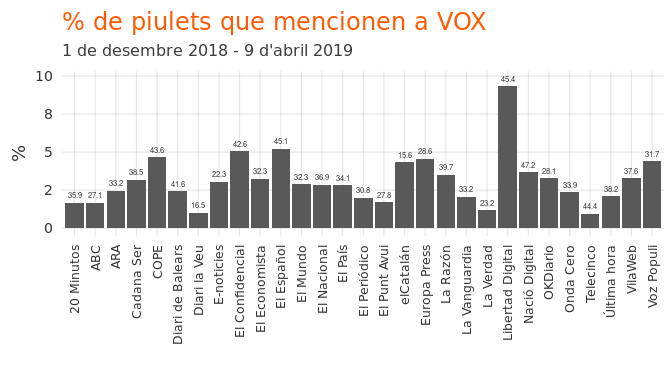
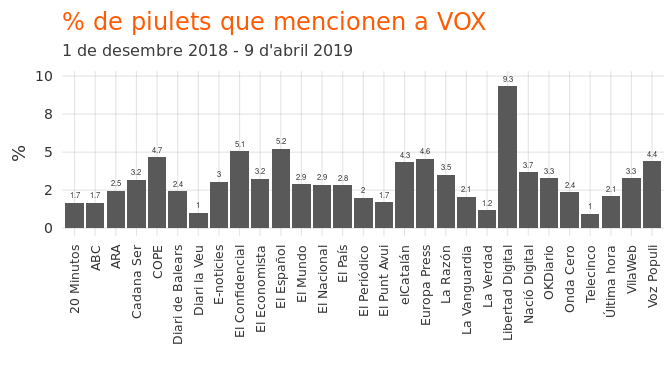
updated

diff --git a/analyses/vox/README.md b/analyses/vox/README.md
@@ -1,7 +1,7 @@
 Si us plau, pareu de parlar tant de VOX
 ================
 
-*"No existeix la publicitat bona. Tota publicitat és bona publicitat"*
+*"No existeix la publicitat dolenta Tota publicitat és bona publicitat"*
 
 *-Phineas T. Barnum, fundador del Circ Barnum Brothers*
 
@@ -62,6 +62,8 @@ No tots els mitjans mencionen a VOX amb el mateix nivell de desproporcionalitat.
 El problema amb el gràfic anterior és que alguns mitjans no parlen molt de la política i els partits en general, i altres molt. Per tant, estaria bé mirar quin percentage de piulets *que mencionen algun partit polític* fan referència a VOX. Això es veu al gràfic següent.
 
 ![](figures/unnamed-chunk-8-1.png)
+
+No hi ha un patró clar esquerra-dreta amb la freqüencia de mencions de VOX. Ho fan molt, i ho fan tots.
 
 També es pot analitzar, mitjà per mitjà, la distribució de referencies als partits (gràfics al final d'aquest article).
 
